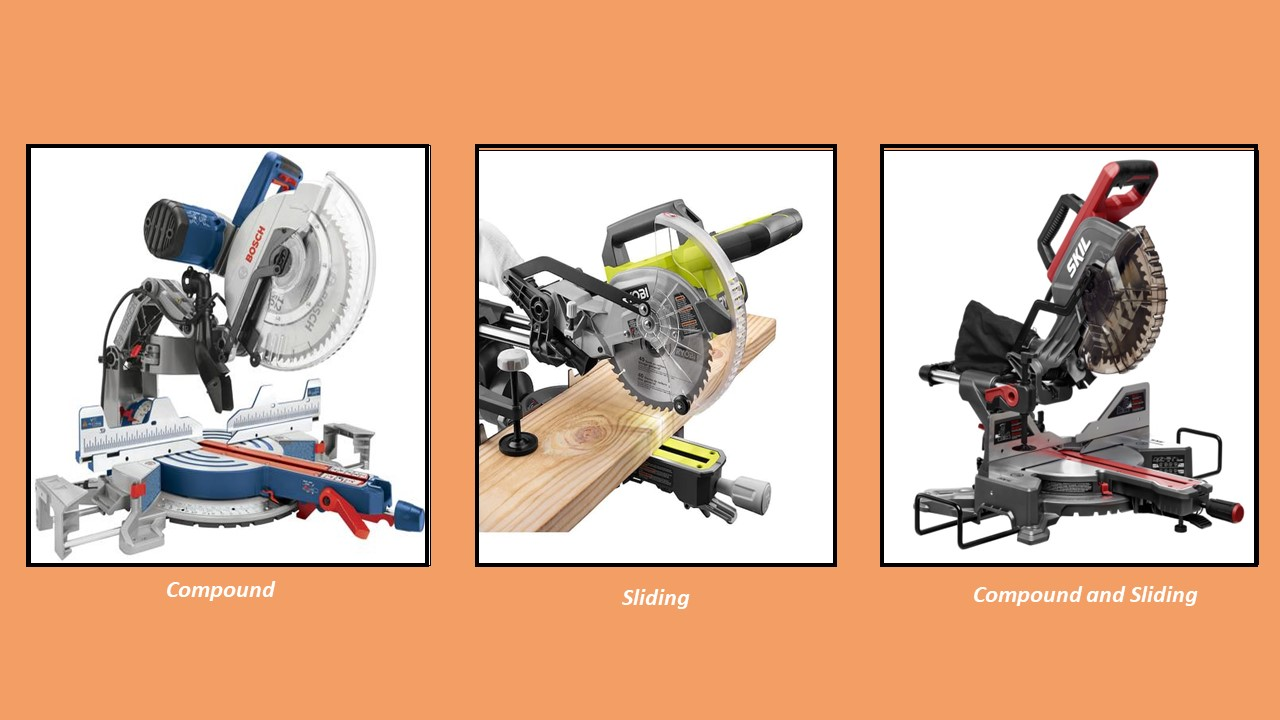
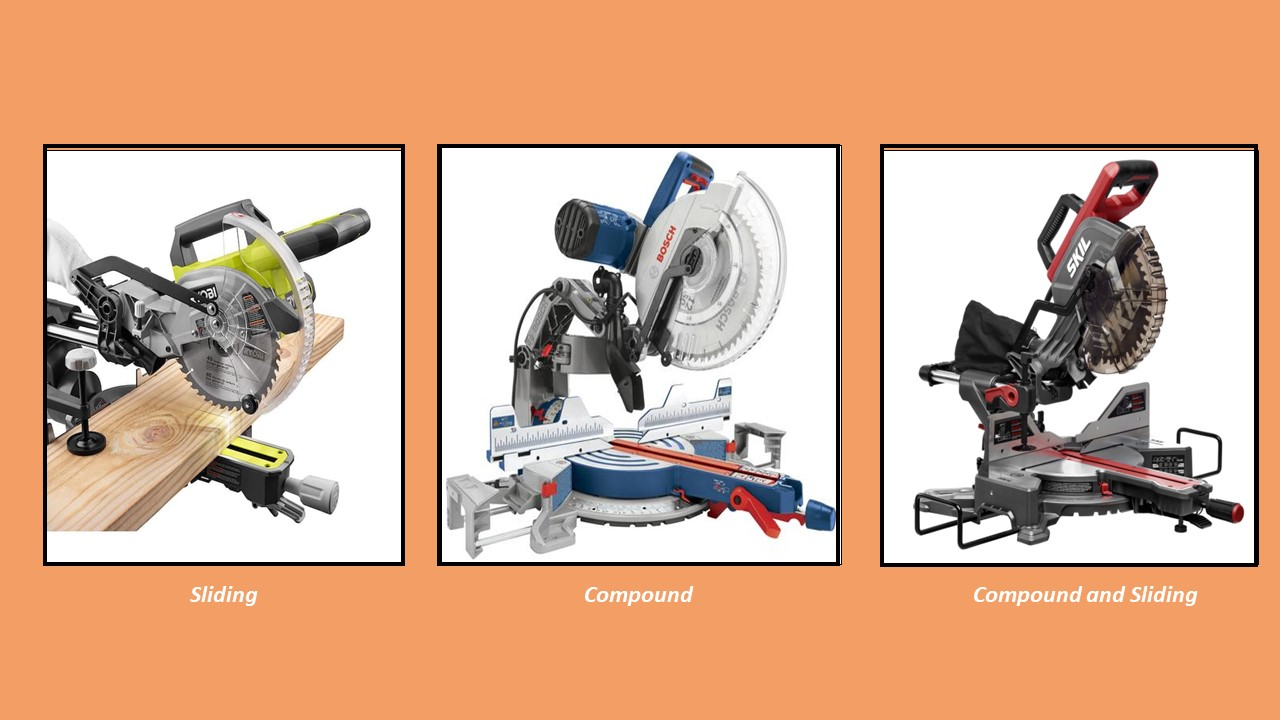
modified image and adjusted paragraph fonts

Changed region(s): [[0.0, 0.1833, 0.6562, 0.8556]]

diff --git a/basics.html b/basics.html
@@ -8,15 +8,33 @@
     <header>
 
     </header>
-    <h1>Using Mitre Saws</h1>
-    <img src="mitre saw.jpg" width="1500" height="1200"
-        alt="Picture of a Rigid Mitre Saw">
+    <h1>Using Miter Saws</h1>
+    <img src="mitre saw.jpg" width="1500" height="1200" alt="Picture of a Rigid Mitre Saw">
 
     <section1>
-        <h2>Types</h2>
-        <img src="" alt="">
+        <h1>Types</h1>
+        <img src="Saw Comparison.jpg" width="900" alt="saw comparison picture">
+
+        <p><font size = "5"> A <em><strong>sliding miter saw</strong></em> is a
+            type of miter saw that adds rails to let the saw blade slide front to
+            back across the wood. It gives you a much greater depth of cut than the same
+            size miter saw without rails. Most sliding miter saws also include
+            the ability to make a compound cut. </font></p>   
+
+        <p><font size = "5"> A <em><strong>compound miter saw</strong></em> saw adds the ability to make bevel 
+            cuts in addition to its mitering ability. You’ll want to make sure you have this 
+            feature anytime you work with crown molding or other trim that gets installed on a wall. 
+            Mitering occurs when you rotate the saw blade around a base. That base holds a scale that 
+            tells you the miter angle in degrees. </font></p>            
+
+        <p><font size = "5"> On a <em><strong>compound and sliding saw</strong></em> you get a miter table, sliding rails, 
+            and beveling that goes both left and right. The left bevel eliminates the need to flip 
+            your material around to make the opposite compound cut. This saves you some time and frustration. 
+            If you prefer to make your crown and base molding cuts flat—this saw saves you lots of hassle 
+            on longer pieces of material. </font></p>  
+
         </section2>
-        <h3>Brands</h3>
+        <h1>Brands</h1>
         <main></main>
         <footer></footer>
 </body>
